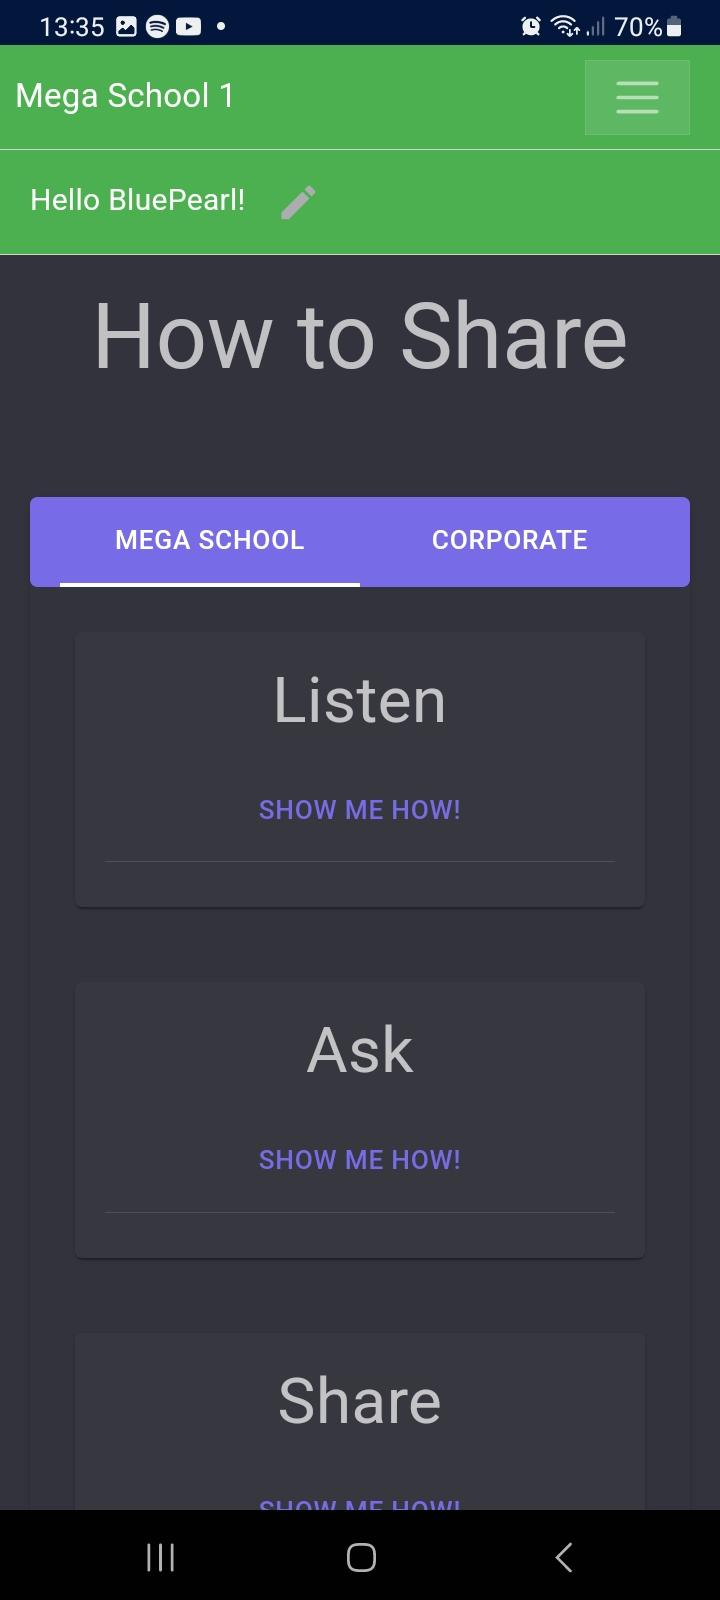
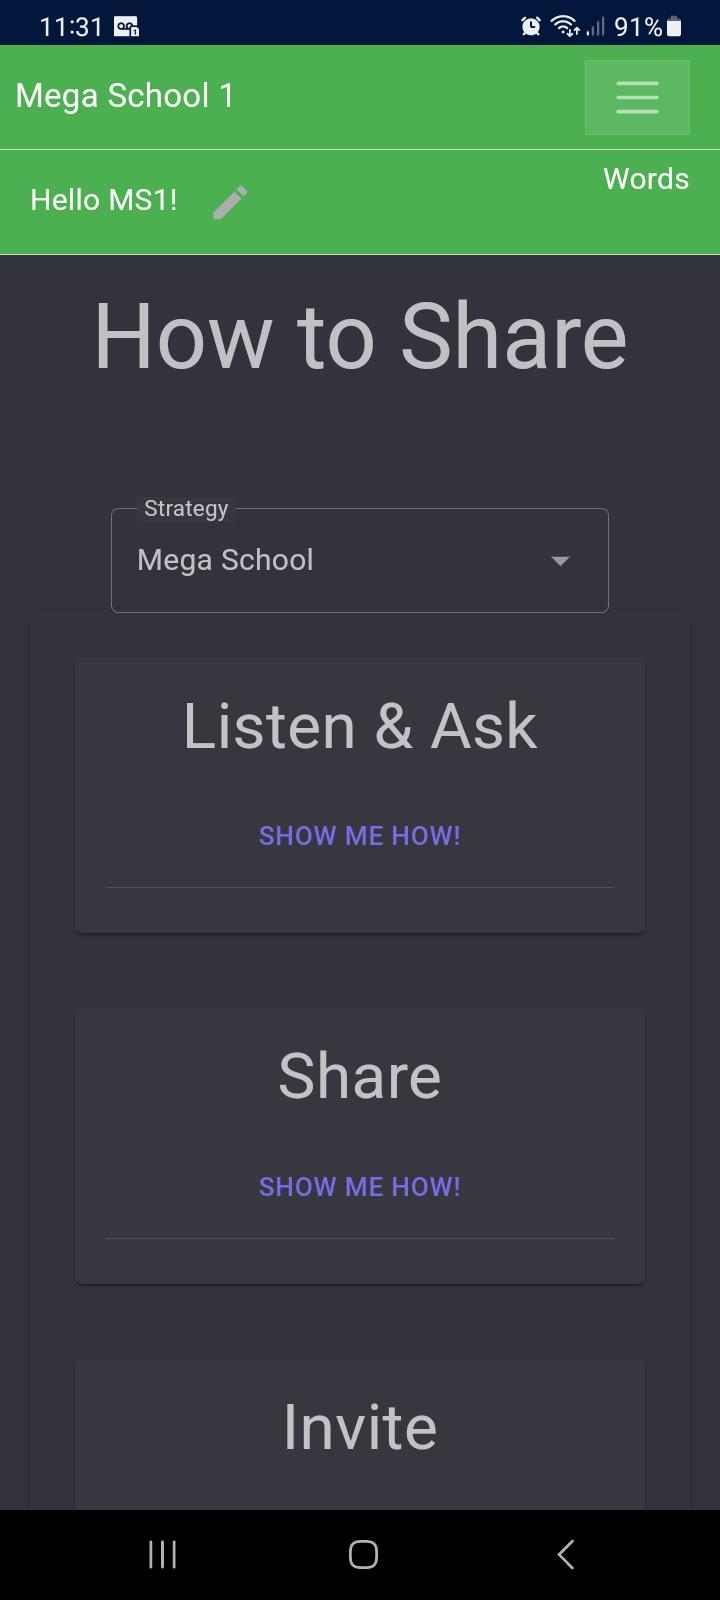
Prospect UI (#8)

diff --git a/src/MegaSchool1/AppState.cs b/src/MegaSchool1/AppState.cs
@@ -2,9 +2,7 @@
 
 public class AppState
 {
-    public const string DefaultUsername = "MS1";
-
-    public string UserName { get; set; } = DefaultUsername;
+    public string? UserName { get; set; }
 
     public bool AppIsInstallable { get; set; }
 }
